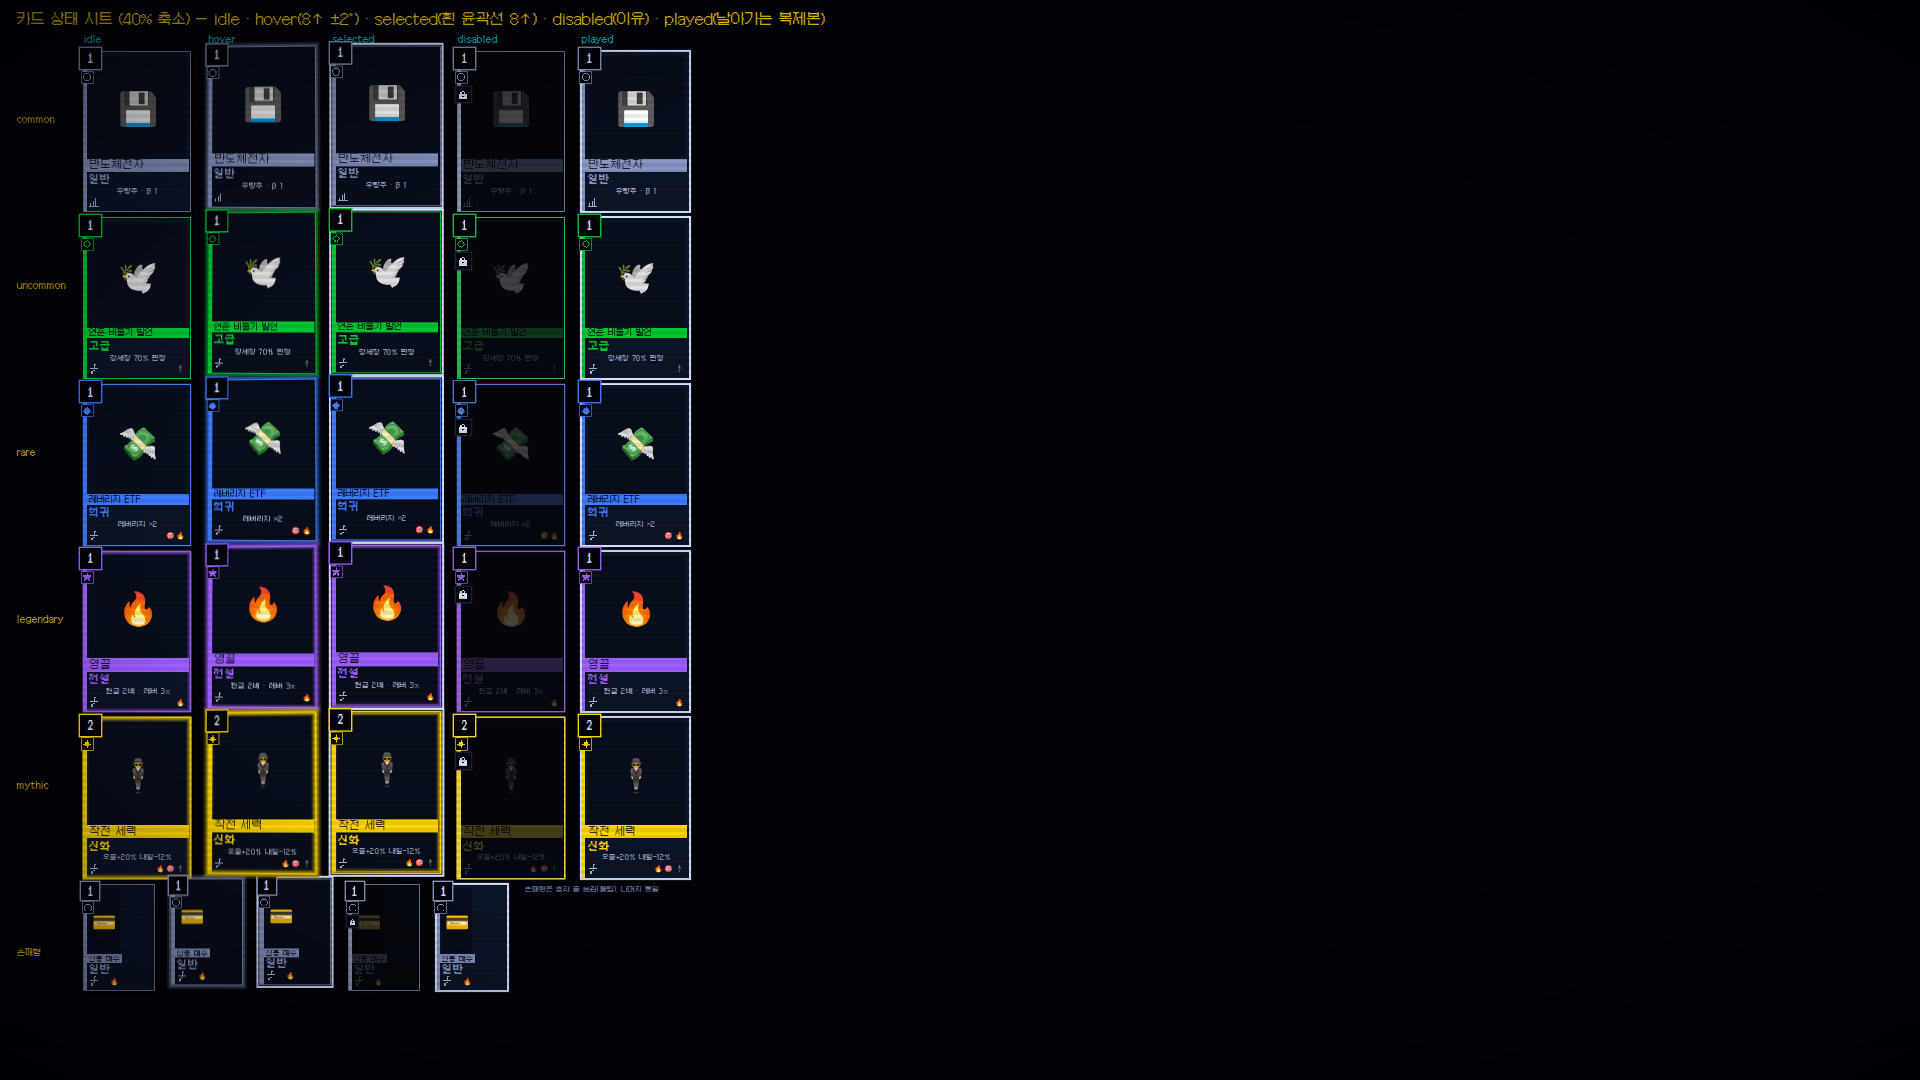
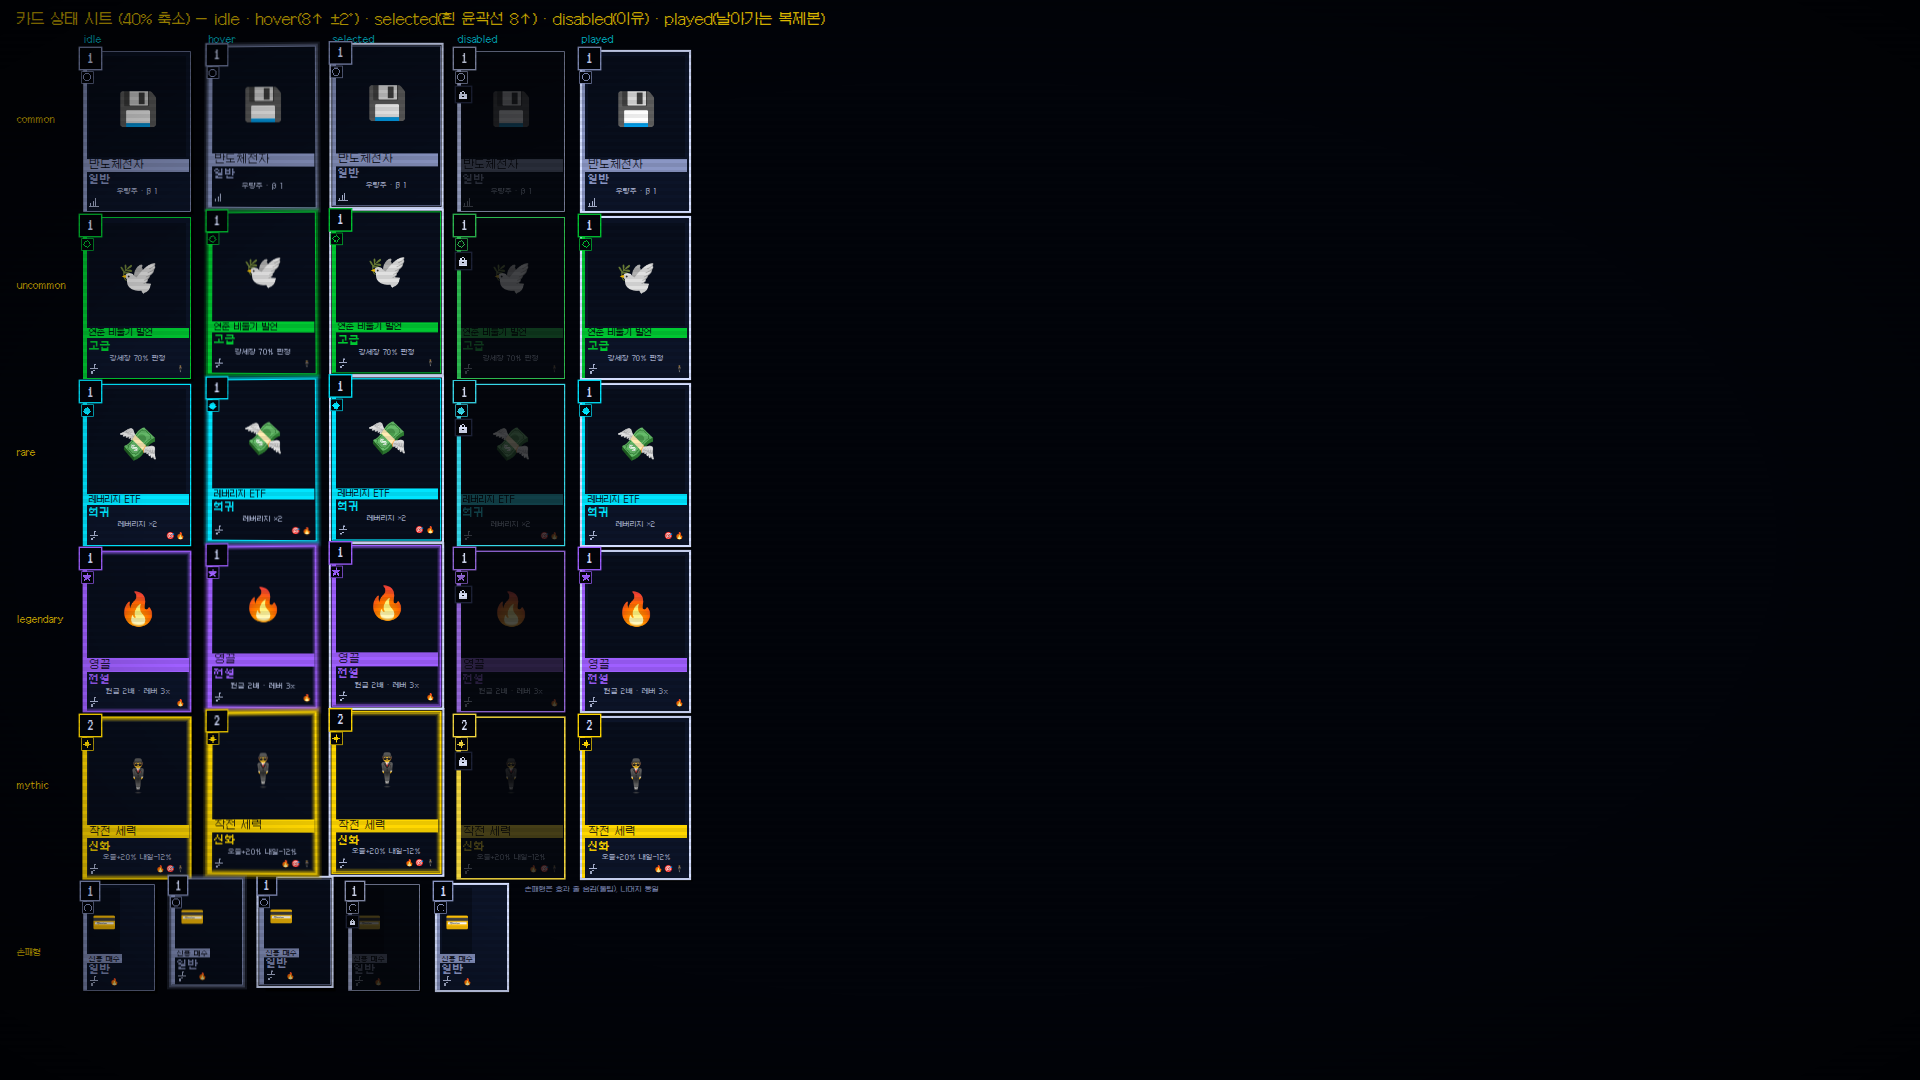
전투 화면: IDX+지수 인버스 차트 나란히 · 종목 시세 그룹 순서(GROUP_ORDER) · 보유 패널(스크롤 없음) · 희귀 등급 = 청록
- 차트: #chartPair = IDX(60%) + 지수 인버스(40%) 같은 높이·같은 시간축, 인버스 잠김이면 IDX 전체 폭, 우상단 확대 아이콘
- 큰 차트 창: '일봉' 탭 → '최근 20일', 캔들 기준선 라벨 'PREV' → '어제 종가' (닫기 버튼은 원래 있음)
- 종목 시세: 안정 → 성장·테마 → 코인·투기 → 인버스 고정 순서, 그룹 첫 행 회색 그룹명 + 8px 구분선, 보유 종목은 점만
- 보유 패널: 총 평가손익·총 원금 헤더 + 포지션 행(롱/숏·배율·N일째·평단→현재가·손익·가운데 기준 막대·매도), 1열 → 2열 → 손익 큰 순 + '외 N건 합계'
- 예전 '포지션을 시세 행에 통합' 표시 제거, #stockList 스크롤 제거
- 디버그 ?scenario=all|big|down|lockinv 추가, layoutfinal 테스트를 새 구조로
- 카드 희귀 등급 색 --rar-rare = --cyan

Claude-Session: https://claude.ai/code/session_01TQNFC1beVsEVeV9NTV8moW

Changed region(s): [[0.0312, 0.3361, 0.375, 0.5194], [0.2812, 0.3667, 0.3125, 0.3972], [0.0312, 0.3667, 0.0625, 0.3972]]

diff --git a/CLAUDE.md b/CLAUDE.md
@@ -132,7 +132,7 @@
 ### 레이아웃 (가로 데스크톱 / 세로 모바일)
 
 - **901px 이상**: `.cabinet`이 창 전체(100vw × 100dvh)를 채운다 (고정 비율·레터박스·확대 없음, 배경 차트·격자 레이어 없음). 배율 `uiScale`(CSS `--ui`)은 `layoutUi()`가 창 높이 ÷ `UI_BASE_H`(600)를 0.25 단위로 반올림, 1~2.5 — 창 크기가 바뀌면(`resize`, rAF 한 번) 다시 정하고 `renderAll`로 캔버스·카드 잘림을 다시 그린다. '화면 크기'를 키울 때는 창이 `UI_MIN_UNITS_W × UI_MIN_UNITS_H` 칸보다 작아지지 않는 선까지만. Canvas 내부 해상도 = 화면 크기 × devicePixelRatio, 점·선 굵기 = `round(uiScale × dpr)`. fx 파티클 크기는 `Fx.setUiScale`.
-- **전투 화면 확정 레이아웃 (`body.lay-f`, UI 리디자인 규칙 적용)**: 폭 ≥ 1200 이고 폭/높이 ≥ 1.45인 화면에서 `applyLayout()`이 켠다(`layoutNow()`). 그보다 좁거나 주소가 `?layout=classic`이면 아래 예전(classic) 레이아웃 그대로 — 회귀 테스트는 전부 `?layout=classic`으로 연다. 켜지면 `placeLayout()`이 현금·행동력·칩·금감원을 `#infoCol`(좌측 열)로, 종목 시세·포지션을 `#stockList`(우측)로 옮긴다(id·렌더 함수는 그대로, 끄면 제자리로). 격자(1080p 시작값을 `--u`로 환산): 상단 바 55u(≈96px: ≡ · WEEK/DAY · 순자산+목표 바 `.balance-main`(Press Start 24px, 화면에서 가장 큰 수치) · 장 속도 · ⚙ `#topSettingsBtn`) / 좌측 열 171u(현금·비자금·행동력 큰 칸 + n/3·정산 배수·덱 확인, 아래 전량 매도) / 중앙(유물 줄 → 이벤트 한 줄 → 차트 '시장 지수' 최소 229u → 부채꼴 손패 + 덱·버림 더미 `#pileDeck`·`#pileDiscard`) / 우측 372u(종목 시세) / 우하단 장 시작 대형 CTA. **포지션 통합**: `#quoteBox`와 `#positionsBox`가 `display:contents`로 같은 `#stockList` 안에서 CSS `order`(시세 행 = 종목 인덱스×2, 포지션 줄 `.pos-line` = ×2+1)로 섞여, 종목 순서는 고정이고 포지션 줄은 해당 종목 행 바로 아래에 붙는다. 보유 행은 `.held(.held-up/.held-down)` 왼쪽 강조 바, 레버리지·숏 배지는 종목 행 이름 옆 `.q-pb`. 같은 종목에 포지션이 여러 개면 줄이 쌓인다(임시 — ×N 배지·펼침은 결정 대기). 등락이 전부 0이면 `body.quotes-flat`으로 가격만. 손패는 `.hand.fan`(카드 108u, 겹침 간격은 칸 폭에서 `--step` 자동, 호버 14u 상승), 비활성 카드는 자물쇠 `.cv-lock`만 보이고 이유는 호버 툴팁. 디버그 `?scenario=full|nine|multi|hand|long|empty`(쉼표로 조합)가 9종목 보유·한 종목 2포지션·손패 가득·순자산 123억 4,567만·보유 0개를 강제로 만든다(UI 검증 전용). 테스트 `tools/tests/layoutfinal.cjs`.
+- **전투 화면 확정 레이아웃 (`body.lay-f`, UI 리디자인 규칙 적용)**: 폭 ≥ 1200 이고 폭/높이 ≥ 1.45인 화면에서 `applyLayout()`이 켠다(`layoutNow()`). 그보다 좁거나 주소가 `?layout=classic`이면 아래 예전(classic) 레이아웃 그대로 — 회귀 테스트는 전부 `?layout=classic`으로 연다. 켜지면 `placeLayout()`이 현금·행동력·칩·금감원을 `#infoCol`(좌측 열)로, 종목 시세·포지션을 `#stockList`(우측)로 옮긴다(id·렌더 함수는 그대로, 끄면 제자리로). 격자(1080p 시작값을 `--u`로 환산): 상단 바 55u(≈96px: ≡ · WEEK/DAY · 순자산+목표 바 `.balance-main`(Press Start 24px, 화면에서 가장 큰 수치) · 장 속도 · ⚙ `#topSettingsBtn`) / 좌측 열 171u(현금·비자금·행동력 큰 칸 + n/3·정산 배수·덱 확인, 아래 전량 매도) / 중앙(유물 줄 → 이벤트 한 줄 → 차트 '시장 지수' 최소 229u → 부채꼴 손패 + 덱·버림 더미 `#pileDeck`·`#pileDiscard`) / 우측 372u(종목 시세) / 우하단 장 시작 대형 CTA. **차트**: `#chartPair` = IDX 차트(`#chartBox`, 약 60%) + 지수 인버스 차트(`#invChartBox`, `renderInvChart`, 약 40%) 같은 높이·같은 '오늘' 캔들 칸, 인버스 잠김(`body.lock-short`)이면 IDX 전체 폭, 우상단 확대 아이콘 `.chart-zoom-btn` = 큰 차트 창. **종목 시세**: UI 상수 `GROUP_ORDER`(안정 → 성장·테마 → 코인·투기 → 인버스, 보유 여부와 무관하게 고정, `QUOTE_GROUPS`·`quoteRank`) 순서를 CSS `order`(`--go`)로, 그룹 첫 행 왼쪽 열에 회색 그룹명 `.q-gcap` + 그룹 사이 8px 구분선(`.g-first`), 보유 종목은 이름 앞 점만. **보유 패널** `#holdPanel`(시세 바로 아래, `renderHoldings`): 헤더 총 평가손익(금액·%)·총 원금 + 포지션 행(종목명·롱/숏·배율·N일째·평단→현재가·손익·가운데 기준 막대·매도, 순서 = 그룹 순서). 스크롤 없음 — 1열(`c1`)에 안 들어가면 2열(`c2`, N일째·평단·금액·막대는 툴팁), 그래도 넘치면 손익 절댓값 큰 순 + '외 N건 합계'(`holdLayout`), 종목명이 4글자보다 좁아지면 평단→현재가·N일째를 툴팁으로(`tight1`·`tight2`). 행 높이 1080p 32px(`--q-row` 최소 30px, `--h-row`). 등락이 전부 0이면 `body.quotes-flat`으로 가격만. 손패는 `.hand.fan`(카드 108u, 겹침 간격은 칸 폭에서 `--step` 자동, 호버 14u 상승), 비활성 카드는 자물쇠 `.cv-lock`만 보이고 이유는 호버 툴팁. 디버그 `?scenario=full|nine|multi|hand|long|empty|all|big|down|lockinv`(쉼표로 조합)가 9종목 보유·한 종목 2포지션·손패 가득·순자산 123억 4,567만·보유 0개·전 종목+2 보유(롱/숏·레버리지 섞어서)·원금 수십억·전 종목 하락·인버스 해금 전을 강제로 만든다(UI 검증 전용). 테스트 `tools/tests/layoutfinal.cjs`.
 - TR룸: 폭 ≥ 1200 이고 폭/높이 ≥ 1.45면 **3단** — 상단 HUD(전체 폭 — N2: 상시 숫자는 순자산+목표 막대·현금(💼 비자금 작게)뿐, 빌린 돈·확정손익·낸 이자는 순자산 상자 호버 툴팁 `#balTip`, 금감원 게이지는 0이면 `.fss.off`로 숨김) / 왼쪽 시장(뉴스 전광판 + '📰 내일' 버튼(호버로 예고)·차트(칸 높이를 전부 씀, 장세 뱃지 `#marketStateBadge` = 엔진 `marketState`)) / 가운데 행동(행동력·칩·손패·**시세 13종목 2열 격자**(이름·시그널 칩 / 가격·등락, 상·하한가는 등락 칸 上·下, 섹터·β는 종목명 호버 — 3단에선 `.play-left`가 `display:contents`라 시세표가 손패 아래로 올라온다)·장 시작) / 오른쪽 위에 유물 줄 / 오른쪽 포지션(2줄 행 — 종목·배지·손익·매도 / 평단→현재가·원금·보유일·태그 아이콘·심지 게이지 `.fuse`(반대매매까지 남은 여유 `fuseLeft` = 건강도 1~`FUSE_FULL_HEALTH`, 초록 → 주황 `FUSE_WARM` → 빨강 = 엔진 `marginWarn`, 숫자·"담보비율/증거금률"은 툴팁만), 노출액은 행 툴팁 — 목록 스크롤·전량 매도). `.play-right`를 `display:contents`로 풀어 자식들을 `#screen-play` 그리드 영역(relic·turn·chips·ht·hand·open / pt·pos·sell)에 놓는다. 그보다 좁으면 **2단** `.play-left` | `.play-right`(포지션 최소 35vh, 모자라면 이 칸만 스크롤, 장 시작·전량 매도는 sticky). 시세표는 자동 배율에서 7행이 스크롤 없이 보여야 한다 (차트가 먼저 줄어든다). 새 UI는 이 구역 중 하나에 넣는다.
 - 뉴스 배너는 한 줄에 안 들어가면 `fitNews`가 전광판(`.marquee`)으로 흘리고, 흔들림 끔·동작 줄이기면 `.wrap`(줄바꿈). 유물 없음 안내는 `fitRelicEmpty`가 좁으면 '유물 없음'.
 - 게임 이름·메타는 `docs/demo` `<head>`의 `GAME_TITLE {ko, en, sub}`·`GAME_META {version, author, links}`에서만 읽는다 (탭 제목·타이틀 로고·전광판). 이름을 하드코딩하지 않는다.
